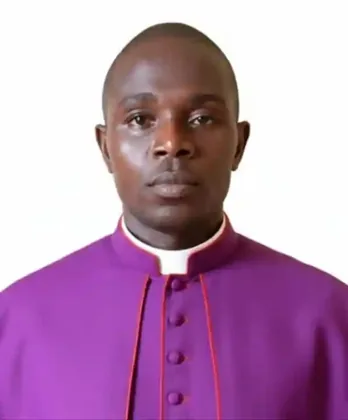
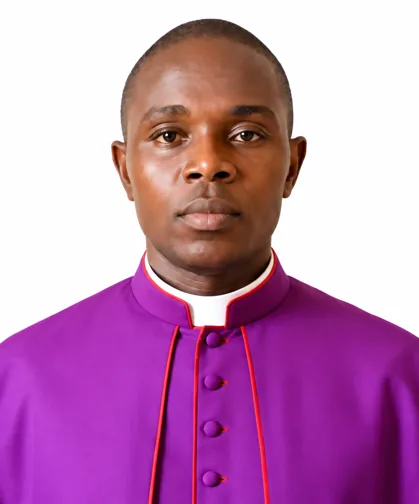
Replace Bishop Togbah portrait with higher-resolution photo
Claude-Session: https://claude.ai/code/session_01FDKZkufN2mcSp5gx53ft3V

diff --git a/leadership.html b/leadership.html
@@ -78,7 +78,7 @@
     <section class="section bg-paper">
       <div class="container leader-grid">
         <div class="leader-photo reveal">
-          <img src="assets/img/gallery/bishop-togbah-portrait.webp" alt="Official portrait of Bishop Dr. Ishmael L. Togbah in a purple episcopal cassock" loading="lazy" width="597" height="720" style="background:#fff">
+          <img src="assets/img/gallery/bishop-togbah-portrait.webp?v=2" alt="Official portrait of Bishop Dr. Ishmael L. Togbah in a purple episcopal cassock" loading="lazy" width="998" height="1200" style="background:#fff">
           <div class="leader-tag"><span>Bishop Primate for Liberia (WAC)</span><strong>Bishop Dr. Ishmael L. Togbah</strong></div>
         </div>
         <div class="leader-copy">
